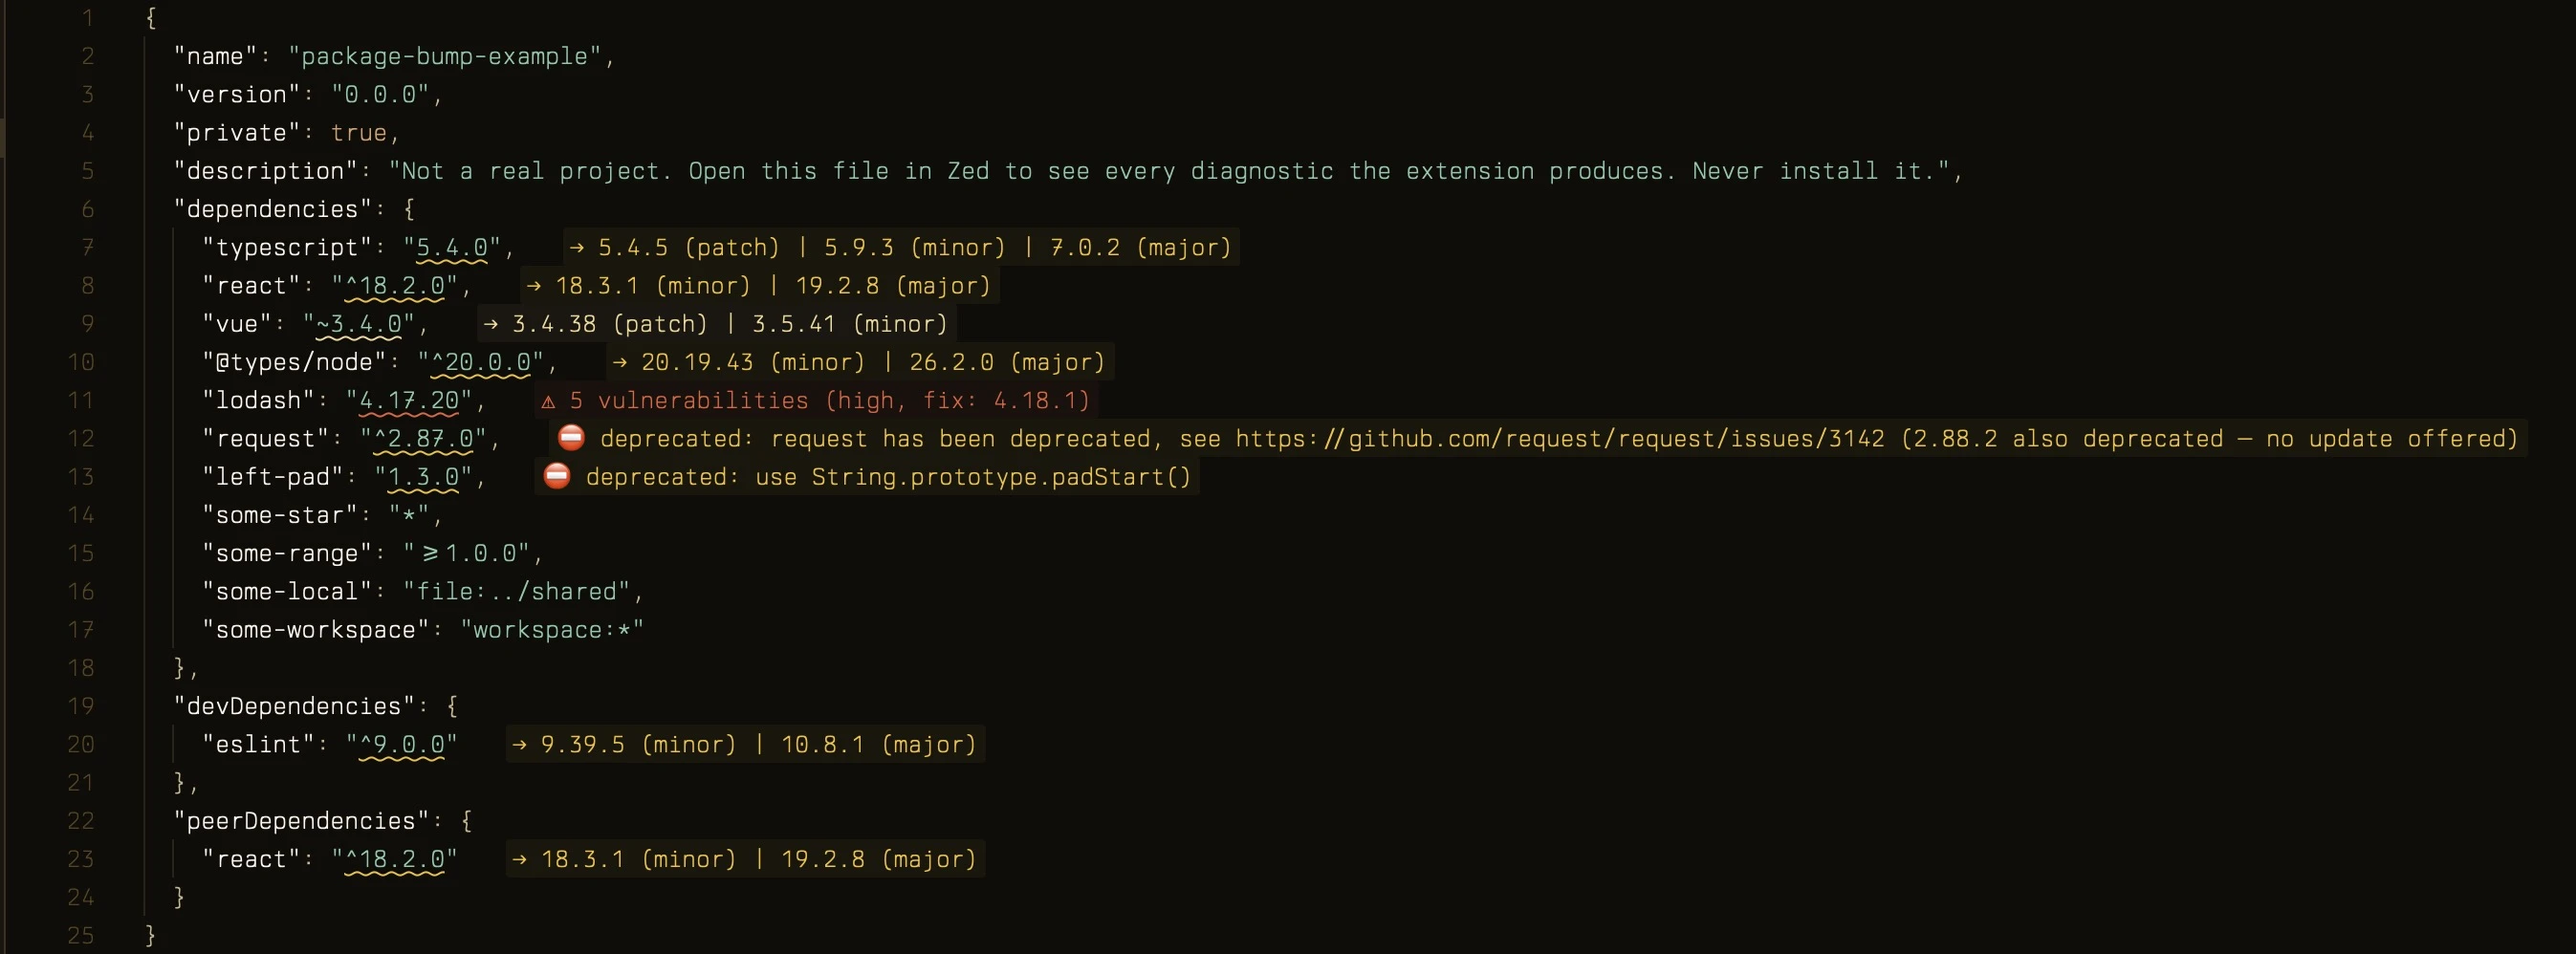
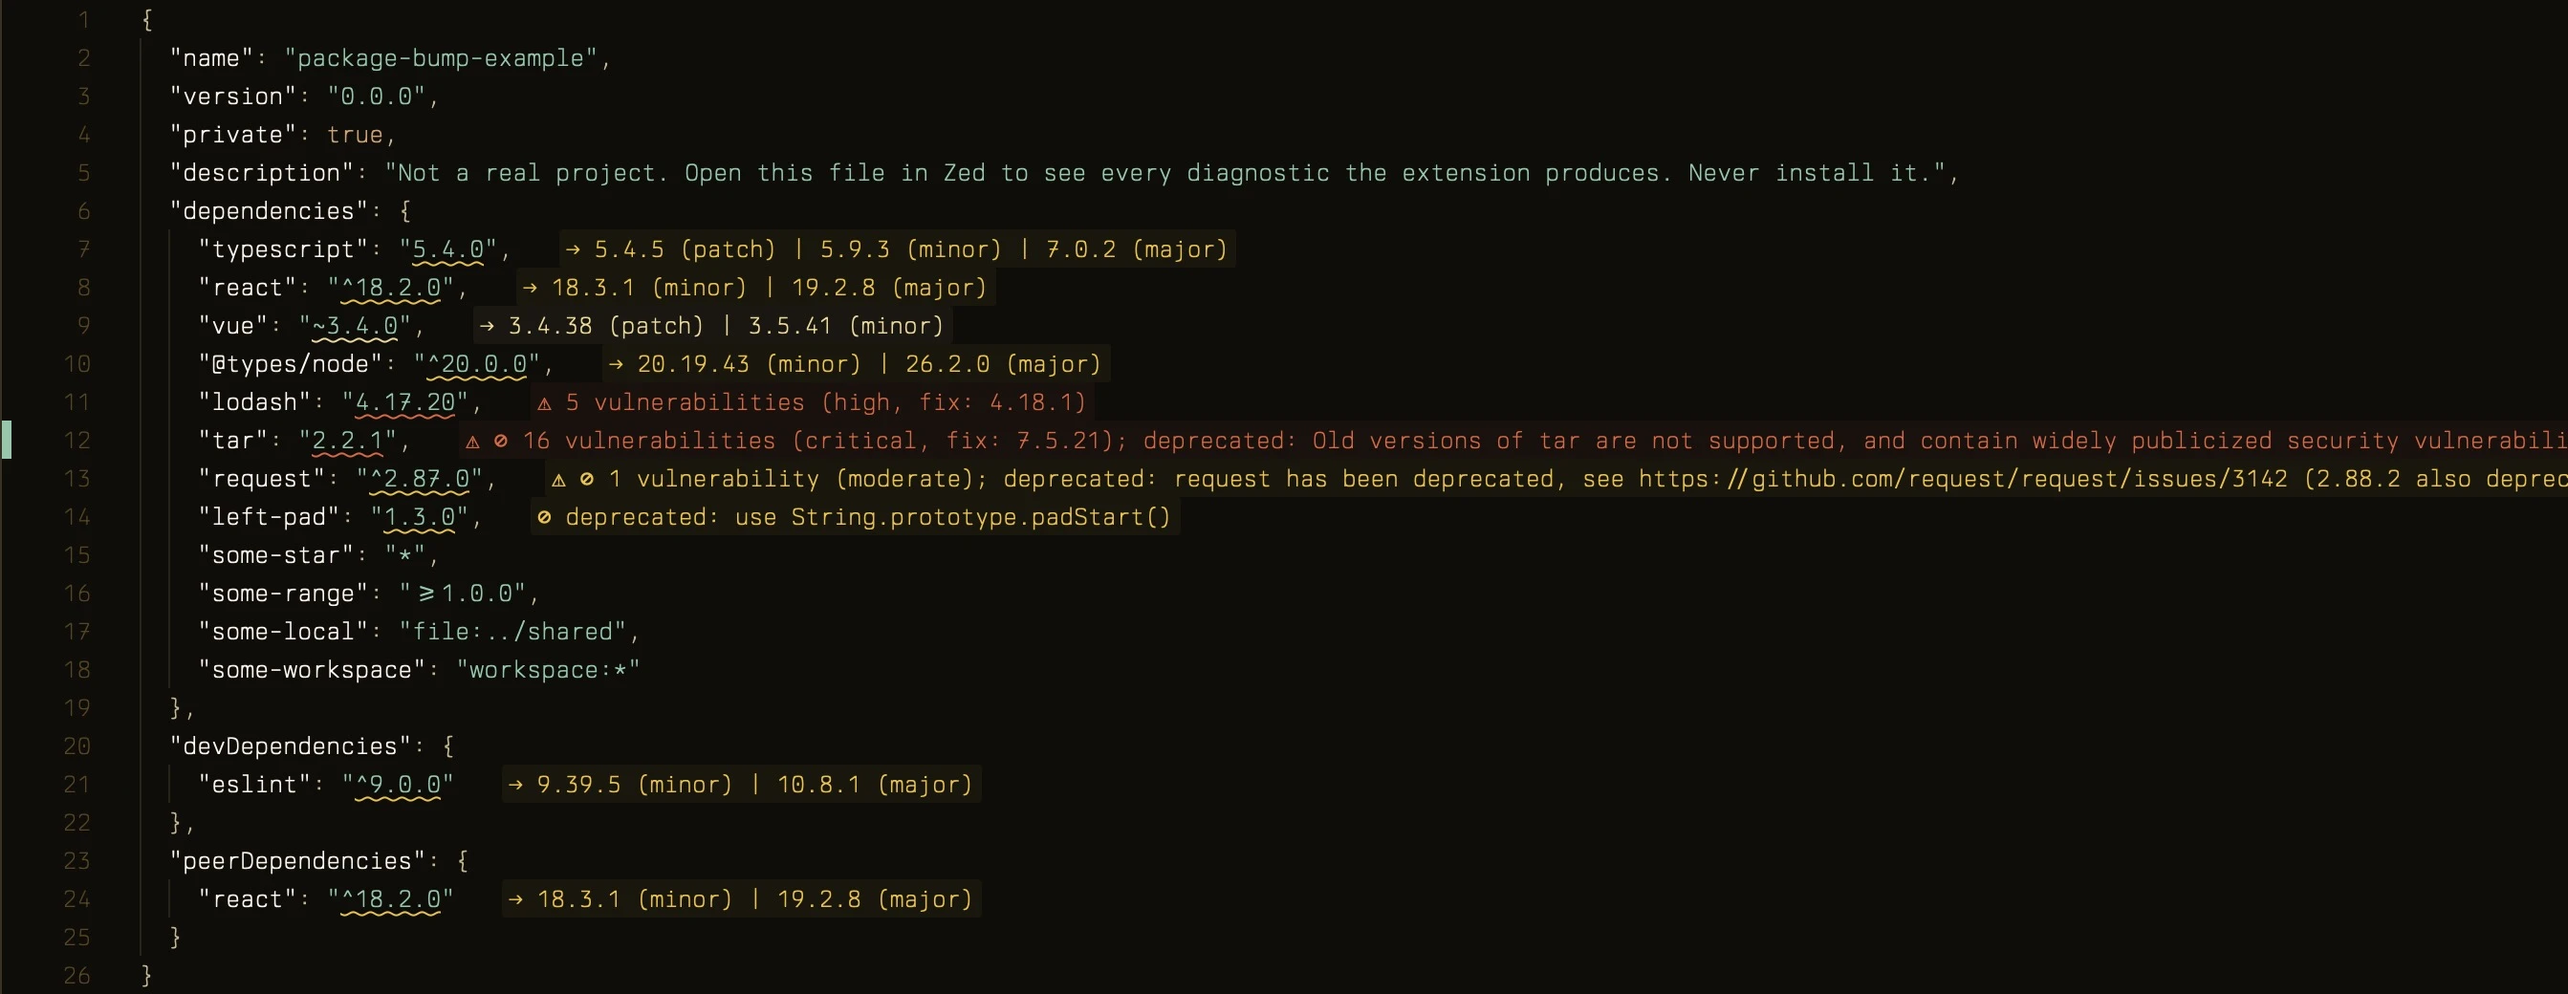
feat: rename complete to full and improve deprecation display

diff --git a/lsp/src/server.ts b/lsp/src/server.ts
@@ -70,10 +70,10 @@ const metaCache = new Map<string, CacheEntry>();
 /* stand-in when a package has no cache entry — read-only by convention */
 const NO_DEPRECATIONS: ReadonlyMap<string, string> = new Map();
 
-/* complete: "eslint: 9.39.4 → 10.8.1 (major)"
+/* full:     "eslint: 9.39.4 → 10.8.1 (major) — updated 2026-08-12"
    compact:  "→ 10.8.1 (major)"
-   level:    "major" */
-type MessageStyle = 'complete' | 'compact' | 'level';
+   level:    "minor | major" */
+type MessageStyle = 'full' | 'compact' | 'level';
 let messageStyle: MessageStyle = 'compact';
 let checkVulnerabilities = true;
 /* clients without documentChanges support ignore that form entirely — fall
@@ -85,7 +85,7 @@ function applySettings(settings: unknown): void {
     | { message_style?: string; check_vulnerabilities?: boolean }
     | undefined;
   const style = s?.message_style;
-  if (style === 'complete' || style === 'compact' || style === 'level') {
+  if (style === 'full' || style === 'compact' || style === 'level') {
     messageStyle = style;
   }
   if (typeof s?.check_vulnerabilities === 'boolean') {
@@ -568,12 +568,12 @@ async function validate(uri: string): Promise<void> {
       .join(' | ');
     const modified = metaByName.get(f.name)?.modified;
     const published =
-      modified && messageStyle === 'complete'
+      modified && messageStyle === 'full'
         ? ` — updated ${modified.slice(0, 10)}`
         : '';
     const message =
       messageStyle === 'level'
-        ? highest.level
+        ? f.tiers.map((t) => t.level).join(' | ')
         : messageStyle === 'compact'
           ? `→ ${list}`
           : `${f.name}: ${bare} → ${list}${published}`;
@@ -588,30 +588,22 @@ async function validate(uri: string): Promise<void> {
 
   const withheldBySite = new Map(withheld.map((w) => [w.site, w.tier]));
 
-  /* deprecated versions get their own warning regardless of update status */
+  /* deprecation text per site, emitted below — a site that also has
+     advisories hands its text to the vulnerability diagnostic instead, so
+     one line never carries two competing warnings */
+  const deprecationBySite = new Map<(typeof sites)[number], string>();
   for (const site of sites) {
     const bare = site.current.replace(/^[\^~]/, '');
     const note = metaByName.get(site.name)?.deprecated.get(bare);
     if (note === undefined) continue;
     /* a withheld update on a line that is already flagged deprecated says
-       the same thing twice — fold it in and drop the separate note, which
-       spares the line a third diagnostic competing for the inline slot */
+       the same thing twice — fold it in and drop the separate note */
     const tier = withheldBySite.get(site);
     withheldBySite.delete(site);
     const also = tier
       ? ` (${tier.version} also deprecated — no update offered)`
       : '';
-    diagnostics.push({
-      range: site.range,
-      severity: DiagnosticSeverity.Warning,
-      source: 'package-bump',
-      message:
-        messageStyle === 'level'
-          ? '⛔ deprecated'
-          : messageStyle === 'compact'
-            ? `⛔ deprecated: ${note}${also}`
-            : `${site.name} ${bare} is deprecated: ${note}${also}`,
-    });
+    deprecationBySite.set(site, `${note}${also}`);
   }
 
   /* informational: there is nothing to click, the point is that the
@@ -624,10 +616,10 @@ async function validate(uri: string): Promise<void> {
       source: 'package-bump',
       message:
         messageStyle === 'level'
-          ? '⛔ no update'
+          ? '⊘ no update'
           : messageStyle === 'compact'
-            ? `⛔ ${tier.version} (${tier.level}) deprecated — no update offered`
-            : `${site.name}: ${bare} → ${tier.version} (${tier.level}) is deprecated — no update offered`,
+            ? `⊘ ${tier.version} (${tier.level}) deprecated — no update offered`
+            : `⊘ ${site.name}: ${bare} → ${tier.version} (${tier.level}) is deprecated — no update offered`,
     });
   }
 
@@ -700,20 +692,31 @@ async function validate(uri: string): Promise<void> {
       if (safe) vulnFixes.push({ ...site, latest: safe, advisoryCount: n });
       const count = `${n} ${n === 1 ? 'vulnerability' : 'vulnerabilities'}`;
       const fixNote = safe ? `, fix: ${safe}` : '';
+      /* a deprecated package with advisories reads as one problem, not two:
+         both markers, the advisory's severity, and the maintainer's note */
+      const deprecation = deprecationBySite.get(site);
+      deprecationBySite.delete(site);
+      const mark = deprecation ? '⚠ ⊘' : '⚠';
+      const tail = deprecation ? `; deprecated: ${deprecation}` : '';
       const message =
         messageStyle === 'level'
-          ? `⚠ ${worst.severity}`
+          ? `${mark} ${worst.severity}`
           : messageStyle === 'compact'
-            ? `⚠ ${count} (${worst.severity}${fixNote})`
-            : `${site.name} ${bare}: ${count} (worst: ${worst.severity}${fixNote}) — ${worst.title}`;
+            ? `${mark} ${count} (${worst.severity}${fixNote})${tail}`
+            : `${mark} ${site.name} ${bare}: ${count} (worst: ${worst.severity}${fixNote}) — ${worst.title}${tail}`;
+      const vulnSeverity =
+        SEVERITY_RANK[worst.severity] >= SEVERITY_RANK.high
+          ? DiagnosticSeverity.Error
+          : worst.severity === 'moderate'
+            ? DiagnosticSeverity.Warning
+            : DiagnosticSeverity.Information;
       diagnostics.push({
         range: site.range,
+        /* a low advisory must not drag a deprecation below Warning */
         severity:
-          SEVERITY_RANK[worst.severity] >= SEVERITY_RANK.high
-            ? DiagnosticSeverity.Error
-            : worst.severity === 'moderate'
-              ? DiagnosticSeverity.Warning
-              : DiagnosticSeverity.Information,
+          deprecation && vulnSeverity > DiagnosticSeverity.Warning
+            ? DiagnosticSeverity.Warning
+            : vulnSeverity,
         source: 'package-bump',
         message,
         code: worst.url.split('/').pop(),
@@ -721,6 +724,23 @@ async function validate(uri: string): Promise<void> {
       });
     }
   }
+
+  /* deprecations with no advisory to ride along with */
+  for (const [site, text] of deprecationBySite) {
+    const bare = site.current.replace(/^[\^~]/, '');
+    diagnostics.push({
+      range: site.range,
+      severity: DiagnosticSeverity.Warning,
+      source: 'package-bump',
+      message:
+        messageStyle === 'level'
+          ? '⊘ deprecated'
+          : messageStyle === 'compact'
+            ? `⊘ deprecated: ${text}`
+            : `⊘ ${site.name} ${bare} is deprecated: ${text}`,
+    });
+  }
+
   /* the fix-verification rounds awaited network again — re-check staleness */
   if (documents.get(uri)?.version !== version) return;
 

diff --git a/server/server.js b/server/server.js
@@ -9127,7 +9127,7 @@ var supportsDocumentChanges = false;
 function applySettings(settings) {
   const s = settings;
   const style = s?.message_style;
-  if (style === "complete" || style === "compact" || style === "level") {
+  if (style === "full" || style === "compact" || style === "level") {
     messageStyle = style;
   }
   if (typeof s?.check_vulnerabilities === "boolean") {
@@ -9467,8 +9467,8 @@ async function validate(uri) {
     const highest = f.tiers[f.tiers.length - 1];
     const list = f.tiers.map((t) => `${t.version} (${t.level})`).join(" | ");
     const modified = metaByName.get(f.name)?.modified;
-    const published = modified && messageStyle === "complete" ? ` \u2014 updated ${modified.slice(0, 10)}` : "";
-    const message = messageStyle === "level" ? highest.level : messageStyle === "compact" ? `\u2192 ${list}` : `${f.name}: ${bare} \u2192 ${list}${published}`;
+    const published = modified && messageStyle === "full" ? ` \u2014 updated ${modified.slice(0, 10)}` : "";
+    const message = messageStyle === "level" ? f.tiers.map((t) => t.level).join(" | ") : messageStyle === "compact" ? `\u2192 ${list}` : `${f.name}: ${bare} \u2192 ${list}${published}`;
     return {
       range: f.range,
       severity: SEVERITY_BY_LEVEL[highest.level],
@@ -9478,6 +9478,7 @@ async function validate(uri) {
     };
   });
   const withheldBySite = new Map(withheld.map((w) => [w.site, w.tier]));
+  const deprecationBySite = /* @__PURE__ */ new Map();
   for (const site of sites) {
     const bare = site.current.replace(/^[\^~]/, "");
     const note = metaByName.get(site.name)?.deprecated.get(bare);
@@ -9485,12 +9486,7 @@ async function validate(uri) {
     const tier = withheldBySite.get(site);
     withheldBySite.delete(site);
     const also = tier ? ` (${tier.version} also deprecated \u2014 no update offered)` : "";
-    diagnostics.push({
-      range: site.range,
-      severity: import_node.DiagnosticSeverity.Warning,
-      source: "package-bump",
-      message: messageStyle === "level" ? "\u26D4 deprecated" : messageStyle === "compact" ? `\u26D4 deprecated: ${note}${also}` : `${site.name} ${bare} is deprecated: ${note}${also}`
-    });
+    deprecationBySite.set(site, `${note}${also}`);
   }
   for (const [site, tier] of withheldBySite) {
     const bare = site.current.replace(/^[\^~]/, "");
@@ -9498,7 +9494,7 @@ async function validate(uri) {
       range: site.range,
       severity: import_node.DiagnosticSeverity.Information,
       source: "package-bump",
-      message: messageStyle === "level" ? "\u26D4 no update" : messageStyle === "compact" ? `\u26D4 ${tier.version} (${tier.level}) deprecated \u2014 no update offered` : `${site.name}: ${bare} \u2192 ${tier.version} (${tier.level}) is deprecated \u2014 no update offered`
+      message: messageStyle === "level" ? "\u2298 no update" : messageStyle === "compact" ? `\u2298 ${tier.version} (${tier.level}) deprecated \u2014 no update offered` : `\u2298 ${site.name}: ${bare} \u2192 ${tier.version} (${tier.level}) is deprecated \u2014 no update offered`
     });
   }
   const vulnFixes = [];
@@ -9554,16 +9550,31 @@ async function validate(uri) {
       if (safe) vulnFixes.push({ ...site, latest: safe, advisoryCount: n });
       const count = `${n} ${n === 1 ? "vulnerability" : "vulnerabilities"}`;
       const fixNote = safe ? `, fix: ${safe}` : "";
-      const message = messageStyle === "level" ? `\u26A0 ${worst.severity}` : messageStyle === "compact" ? `\u26A0 ${count} (${worst.severity}${fixNote})` : `${site.name} ${bare}: ${count} (worst: ${worst.severity}${fixNote}) \u2014 ${worst.title}`;
+      const deprecation = deprecationBySite.get(site);
+      deprecationBySite.delete(site);
+      const mark = deprecation ? "\u26A0 \u2298" : "\u26A0";
+      const tail = deprecation ? `; deprecated: ${deprecation}` : "";
+      const message = messageStyle === "level" ? `${mark} ${worst.severity}` : messageStyle === "compact" ? `${mark} ${count} (${worst.severity}${fixNote})${tail}` : `${mark} ${site.name} ${bare}: ${count} (worst: ${worst.severity}${fixNote}) \u2014 ${worst.title}${tail}`;
+      const vulnSeverity = SEVERITY_RANK[worst.severity] >= SEVERITY_RANK.high ? import_node.DiagnosticSeverity.Error : worst.severity === "moderate" ? import_node.DiagnosticSeverity.Warning : import_node.DiagnosticSeverity.Information;
       diagnostics.push({
         range: site.range,
-        severity: SEVERITY_RANK[worst.severity] >= SEVERITY_RANK.high ? import_node.DiagnosticSeverity.Error : worst.severity === "moderate" ? import_node.DiagnosticSeverity.Warning : import_node.DiagnosticSeverity.Information,
+        /* a low advisory must not drag a deprecation below Warning */
+        severity: deprecation && vulnSeverity > import_node.DiagnosticSeverity.Warning ? import_node.DiagnosticSeverity.Warning : vulnSeverity,
         source: "package-bump",
         message,
         code: worst.url.split("/").pop(),
         codeDescription: { href: worst.url }
       });
     }
+  }
+  for (const [site, text] of deprecationBySite) {
+    const bare = site.current.replace(/^[\^~]/, "");
+    diagnostics.push({
+      range: site.range,
+      severity: import_node.DiagnosticSeverity.Warning,
+      source: "package-bump",
+      message: messageStyle === "level" ? "\u2298 deprecated" : messageStyle === "compact" ? `\u2298 deprecated: ${text}` : `\u2298 ${site.name} ${bare} is deprecated: ${text}`
+    });
   }
   if (documents.get(uri)?.version !== version) return;
   vulnFixesByUri.set(uri, vulnFixes);

diff --git a/README.md b/README.md
@@ -25,7 +25,7 @@ Put the cursor on a package line and press `cmd-.`:
 - **Update `<name>` to `<version>` (patch/minor/major)** — one action per available tier, keeping your `^` or `~` prefix.
 - **Update all N outdated packages** — rewrites every outdated version in the file at once.
 
-![Code action menu on a lodash line, offering the minor update labelled as fixing all 5 vulnerabilities, the patch update, and update all](examples/context-menu.webp)
+![Code action menu on a typescript line, listing the major, minor and patch updates newest first, then update all 8 outdated packages](examples/context-menu.webp)
 
 The newest version leads the menu. A tier that also clears a security advisory says so in its own label instead of adding a separate action.
 
@@ -34,7 +34,7 @@ The newest version leads the menu. A tier that also clears a security advisory s
 Packages with known advisories get a second diagnostic, checked against the npm advisory database (the same data `npm audit` uses):
 
 ```
-lodash 4.17.20: 5 vulnerabilities (worst: high, fix: 4.18.1) — Command Injection in lodash
+⚠ 5 vulnerabilities (high, fix: 4.18.1)
 ```
 
 High and critical advisories show as errors, with a clickable link to the GitHub advisory. `fix:` names the smallest stable, non-deprecated version that clears every advisory, and `cmd-.` offers **Update `<name>` to `<version>` (fixes all N vulnerabilities)** — useful when the safe version is closer than latest.
@@ -46,16 +46,22 @@ This checks the version written in `package.json`, not what's actually installed
 Deprecated packages get a warning carrying the maintainer's message:
 
 ```
-request 2.88.2 is deprecated: request has been deprecated, see https://github.com/request/request/issues/3142
+⊘ deprecated: request has been deprecated, see https://github.com/request/request/issues/3142
 ```
 
 A deprecated version is never offered as an update target, including as a vulnerability fix. When everything newer is deprecated there's nothing to offer, so you get a note:
 
 ```
-some-pkg 1.2.0 → 1.3.0 (minor) is deprecated — no update offered
+⊘ 1.3.0 (minor) deprecated — no update offered
 ```
 
-If your own version is deprecated as well, that note joins the warning: `… is deprecated: <message> (1.3.0 also deprecated — no update offered)`.
+If your own version is deprecated as well, that note joins the warning instead: `⊘ deprecated: <message> (1.3.0 also deprecated — no update offered)`.
+
+A package that is both deprecated and vulnerable is one problem, not two, so it gets a single message carrying both markers and the advisory's severity — red for high and critical:
+
+```
+⚠ ⊘ 16 vulnerabilities (critical, fix: 7.5.21); deprecated: Old versions of tar are not supported…
+```
 
 ## What's skipped
 
@@ -94,7 +100,7 @@ These go in Zed's `settings.json`, or in `.zed/settings.json` to apply to one pr
   "lsp": {
     "package-bump-lsp": {
       "settings": {
-        "message_style": "complete",
+        "message_style": "full",
         "check_vulnerabilities": true
       }
     }
@@ -107,16 +113,16 @@ These go in Zed's `settings.json`, or in `.zed/settings.json` to apply to one pr
 | value                 | example                                                  |
 | --------------------- | -------------------------------------------------------- |
 | `"compact"` (default) | `→ 10.8.1 (major)`                                        |
-| `"complete"`          | `eslint: 9.39.4 → 10.8.1 (major) — updated 2026-08-12`    |
-| `"level"`             | `major`                                                   |
+| `"full"`              | `eslint: 9.39.4 → 10.8.1 (major) — updated 2026-08-12`    |
+| `"level"`             | `patch \| minor \| major`                                 |
 
-Vulnerability and deprecation messages shorten the same way, marked with `⚠` and `⛔` — a vulnerability is `⚠ 5 vulnerabilities (high)` in compact and `⚠ high` in level, a deprecation is `⛔ deprecated: <message>` then `⛔ deprecated`.
+Vulnerability and deprecation messages shorten the same way and keep their `⚠` and `⊘` marker in every style. A vulnerability reads `⚠ 5 vulnerabilities (high)` in compact and `⚠ high` in level; a deprecation reads `⊘ deprecated: <message>` then `⊘ deprecated`.
 
-`"complete"` and `"level"` on the same file (`"compact"` is the screenshot at the top):
+`"full"` and `"level"` on the same file (`"compact"` is the screenshot at the top):
 
-![Complete style, each message prefixed with the package name and current version and ending with the registry update date](examples/complete-mode.webp)
+![Full style, each message prefixed with the package name and current version and ending with the registry update date](examples/full-mode.webp)
 
-![Level style, each message reduced to a single word such as major, minor, or deprecated](examples/level-mode.webp)
+![Level style, each message reduced to the tier words such as patch, minor and major, or deprecated](examples/level-mode.webp)
 
 Zed only shows one message per line inline, so a package with both an update and a warning shows the more severe one. The diagnostics panel lists the rest.
 
